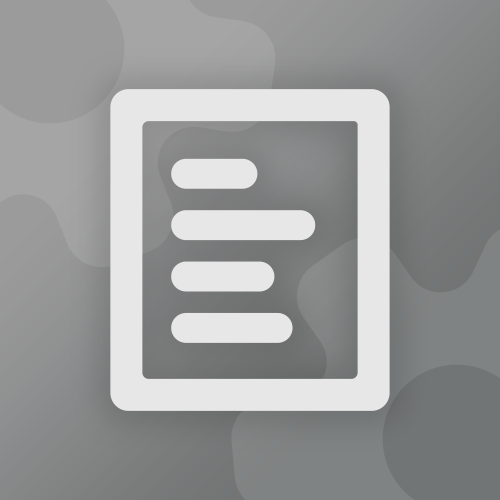
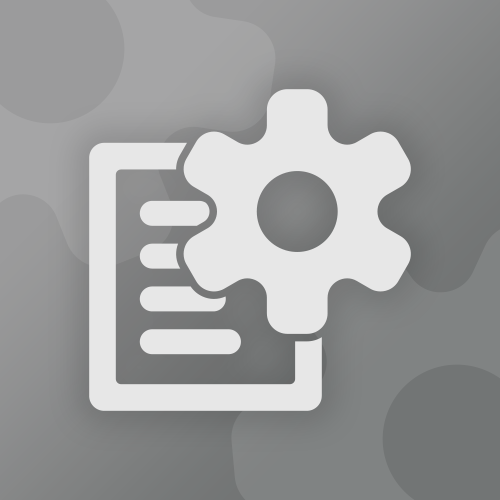
N 2.0

Changed region(s): [[0.18, 0.18, 0.78, 0.84], [0.75, 0.39, 0.84, 0.57], [0.78, 0.27, 0.84, 0.39]]

diff --git a/encore.html b/encore.html
@@ -482,13 +482,15 @@
 
     <div class="banner-bg-u" name="V1">
 
-        <svg xmlns="http://www.w3.org/2000/svg" viewBox="0 0 850.39 850.39">
-            <path d="M746.41,0H103.99C77.59,0,56.19,21.4,56.19,47.8V802.6c0,26.39,21.4,47.79,47.8,47.79H746.41c26.39,0,47.79-21.4,47.79-47.79V47.8C794.2,21.4,772.8,0,746.41,0Zm-36.6,749.3c0,9.22-7.48,16.7-16.71,16.7H157.29c-9.23,0-16.71-7.48-16.71-16.7V101.1c0-9.23,7.48-16.71,16.71-16.71H699.41c5.74,0,10.4,4.66,10.4,10.4V749.3Z"></path>
-            <rect x="371.3" y="-59.51" width="107.79" height="483.41" rx="53.9" ry="53.9" transform="translate(607.4 -243) rotate(90)"></rect>
-            <rect x="397.5" y="186.14" width="55.4" height="323.31" rx="27.7" ry="27.7" transform="translate(772.99 -77.4) rotate(90)"></rect>
-            <rect x="397.5" y="229.39" width="55.4" height="443.21" rx="27.7" ry="27.7" transform="translate(876.19 25.8) rotate(90)"></rect>
-            <rect x="397.5" y="447.39" width="55.4" height="213.61" rx="27.7" ry="27.7" transform="translate(979.39 129) rotate(90)"></rect>
-            <rect x="397.5" y="486.99" width="55.4" height="340.81" rx="27.7" ry="27.7" transform="translate(1082.59 232.2) rotate(90)"></rect>
+        <svg xmlns="http://www.w3.org/2000/svg" viewBox="0 0 850.41 850.41">
+            <path d="M426.35,666.54c12.75,0,23.08,10.33,23.08,23.08s-10.33,23.08-23.08,23.08H188.55c-12.75,0-23.08-10.34-23.08-23.08,0-6.38,2.58-12.14,6.76-16.32,4.17-4.18,9.95-6.76,16.32-6.76h237.8Z"/>
+            <path d="M286.6,540.72H145.89c-12.74,0-23.08-10.33-23.08-23.07,0-6.37,2.59-12.15,6.76-16.32s9.95-6.76,16.32-6.76h106.43l13.27,22.99c5.35,9.26,12.56,17.1,21.01,23.16Z"/>
+            <path d="M448.02,540.72h-73.95l28.75-16.6c4.61-2.67,9.88-4.08,15.23-4.08s10.95,1.48,15.75,4.27l.06,.03,.06,.03,.02,.02c.18,.1,.36,.21,.54,.31,6.33,3.68,11.07,9.4,13.54,16.02Z"/>
+            <path d="M373.36,580.55c12.75,0,23.08,10.33,23.08,23.08s-10.33,23.08-23.08,23.08H241.54c-12.74,0-23.08-10.33-23.08-23.08,0-6.37,2.58-12.15,6.76-16.32,4.18-4.18,9.95-6.76,16.32-6.76h131.82Z"/>
+            <path d="M195.84,408.58h39.04c-.99,2.54-1.85,5.15-2.56,7.82-3.42,12.77-3.4,25.91-.07,38.34h-36.41c-12.74,0-23.08-10.33-23.08-23.08,0-6.38,2.58-12.14,6.76-16.32s9.95-6.76,16.32-6.76Z"/>
+            <path d="M575.94,666.87c14.27,0,27.62-4.05,38.96-11.06v154.79c0,21.98-17.83,39.81-39.81,39.81H39.83C17.83,850.41,0,832.58,0,810.6V181.7C0,159.71,17.83,141.88,39.83,141.88h218.52l-18.61,32.24c-6.79,11.75-10.17,24.84-9.98,38.07H84.24c-7.69,0-13.93,6.23-13.93,13.92V766.19c0,7.68,6.24,13.91,13.93,13.91h446.43c7.69,0,13.92-6.23,13.92-13.91v-99.32h31.35Z"/>
+            <path d="M823.24,388.62h0s-35.77-20.67-35.77-20.67c-15.78-9.1-25.36-25.99-25.33-44.21v-.59c-.03-18.23,9.55-35.11,25.33-44.22l35.77-20.66c25.96-14.99,34.86-48.19,19.87-74.15l-25.86-44.79c-10.05-17.42-28.3-27.16-47.06-27.16-9.21,0-18.54,2.35-27.09,7.28l-35.75,20.64c-7.81,4.52-16.52,6.75-25.23,6.75s-17.81-2.33-25.79-6.96c-.17-.1-.35-.21-.53-.31-15.76-9.08-25.57-25.81-25.57-44.01V54.3C630.23,24.32,605.93,.02,575.94,.02h-51.71c-29.98,0-54.29,24.3-54.29,54.28v41.27c0,18.19-9.8,34.92-25.57,44.01-.17,.1-.35,.2-.53,.3-1.25,.72-2.51,1.39-3.8,2-6.96,3.3-14.48,4.97-21.99,4.97s-14.95-1.65-21.86-4.97c-1.14-.55-2.27-1.14-3.37-1.78l-35.74-20.64c-8.55-4.93-17.89-7.28-27.09-7.28-18.77,0-37.02,9.74-47.08,27.15l-1.47,2.55-24.38,42.24c-5.11,8.85-7.45,18.54-7.26,28.07,.23,13.48,5.49,26.63,15.02,36.58,3.47,3.65,7.52,6.86,12.11,9.51l35.78,20.65c15.78,9.11,25.35,26,25.33,44.22v.59c.01,5.1-.74,10.09-2.17,14.84-3.65,12.23-11.8,22.82-23.16,29.38l-35.78,20.66c-8.6,4.96-15.33,11.92-19.93,19.96-7.91,13.79-9.57,30.73-3.75,46.16,1.03,2.73,2.3,5.42,3.81,8.03l18.35,31.8,7.5,12.99c10.06,17.42,28.31,27.15,47.08,27.15,9.21,0,18.54-2.34,27.09-7.28l35.74-20.63c7.82-4.52,16.52-6.76,25.23-6.76s17.81,2.34,25.79,6.97c.18,.1,.35,.21,.53,.31,12.64,7.28,21.45,19.48,24.44,33.4,.74,3.44,1.13,6.99,1.13,10.6v41.27c0,29.98,24.31,54.28,54.29,54.28h51.71c15.29,0,29.1-6.31,38.96-16.48,9.49-9.77,15.33-23.1,15.33-37.8v-41.27c0-18.19,9.81-34.92,25.57-44,.17-.1,.36-.21,.53-.31,7.98-4.63,16.89-6.96,25.79-6.96s17.42,2.23,25.23,6.75l35.75,20.63c8.54,4.94,17.88,7.28,27.09,7.28,18.76,0,37.01-9.73,47.06-27.15l25.86-44.79c14.99-25.96,6.09-59.16-19.87-74.15Zm-171.53-31.3c-4.62,13.86-11.99,26.47-21.48,37.17-4.63,5.22-9.77,9.99-15.33,14.21-12.56,9.57-27.3,16.43-43.34,19.69-6.94,1.41-14.12,2.15-21.47,2.15-1.84,0-3.68-.05-5.5-.14-5.44-.27-10.78-.95-15.97-2.01-23.15-4.71-43.58-16.89-58.68-33.9-9.48-10.7-16.86-23.31-21.47-37.17-2.01-6.03-3.5-12.29-4.41-18.74-.7-4.95-1.06-10-1.06-15.13,0-11.84,1.92-23.23,5.47-33.87,4.61-13.87,11.99-26.47,21.47-37.17,.85-.96,1.71-1.9,2.6-2.82,14.8-15.53,34.23-26.63,56.08-31.08,4.83-.98,9.78-1.64,14.83-1.94,2.2-.14,4.41-.21,6.64-.21,7.35,0,14.53,.74,21.47,2.15,16.04,3.26,30.78,10.12,43.34,19.69,5.56,4.22,10.7,8.99,15.33,14.21,9.49,10.7,16.86,23.3,21.48,37.17,3.54,10.64,5.47,22.03,5.47,33.87s-1.93,23.22-5.47,33.87Z"/>
+            <path d="M314.34,338.58H150.98c-24.8,0-44.91-20.1-44.91-44.9,0-12.4,5.03-23.63,13.15-31.76,8.13-8.12,19.36-13.15,31.76-13.15h88.94c6.42,11.04,15.65,20.27,27.01,26.83l35.77,20.65c9.48,5.47,15.35,15.77,15.34,26.88v.61c0,5.28-1.31,10.37-3.7,14.84Z"/>
         </svg>
 
         <h1>ENCORE CLSF</h1>
@@ -594,12 +596,13 @@
 
     <div class="banner-bg-u" name="V2">
 
-        <svg xmlns="http://www.w3.org/2000/svg" viewBox="0 0 984.02 1133.86">
-            <path d="M920.3,0H63.73C28.53,0,0,28.53,0,63.73v1006.4c0,35.19,28.53,63.72,63.73,63.72H920.3c35.19,0,63.72-28.53,63.72-63.72V63.73c0-35.2-28.53-63.73-63.72-63.73Zm-48.8,999.07c0,12.29-9.97,22.27-22.28,22.27H134.8c-12.31,0-22.28-9.97-22.28-22.27V134.8c0-12.31,9.97-22.28,22.28-22.28H857.63c7.65,0,13.87,6.21,13.87,13.87V999.07Z"></path>
-            <rect x="214.3" y="245.62" width="303.71" height="105.3" rx="52.65" ry="52.65"></rect>
-            <rect x="214.3" y="426.7" width="507.58" height="105.3" rx="52.65" ry="52.65"></rect>
-            <rect x="214.3" y="607.78" width="363.58" height="105.3" rx="52.65" ry="52.65"></rect>
-            <rect x="214.3" y="788.86" width="427.58" height="105.3" rx="52.65" ry="52.65"></rect>
+        <svg xmlns="http://www.w3.org/2000/svg" viewBox="0 0 850.41 850.41">
+            <path d="M575.94,666.87c14.28,0,27.63-4.05,38.97-11.06v154.79c0,21.99-17.83,39.81-39.82,39.81H39.82C17.83,850.41,0,832.59,0,810.6V181.7C0,159.7,17.83,141.88,39.82,141.88h218.53l-18.61,32.24c-6.79,11.75-10.17,24.84-9.98,38.07H84.24c-7.7,0-13.93,6.23-13.93,13.92V766.19c0,7.69,6.23,13.92,13.93,13.92h446.43c7.7,0,13.93-6.24,13.93-13.92v-99.32h31.34Z"/>
+            <path d="M284.49,361.16h-117.67c-18.17,0-32.9-14.73-32.9-32.9,0-9.08,3.68-17.31,9.64-23.26,5.95-5.96,14.18-9.64,23.26-9.64h123.98c6.39,0,12.35,1.82,17.4,4.97,6.2,5.78,9.85,14.04,9.84,22.8v.61c.01,11.14-5.86,21.43-15.33,26.9l-18.22,10.52Z"/>
+            <path d="M166.82,634.83h201.39c18.17,0,32.9,14.73,32.9,32.9,0,9.09-3.68,17.31-9.64,23.26-5.95,5.96-14.17,9.64-23.26,9.64H166.82c-18.17,0-32.9-14.73-32.9-32.9,0-9.09,3.68-17.31,9.64-23.26,5.95-5.96,14.18-9.64,23.26-9.64Z"/>
+            <path d="M360.48,548.14c.41,2.08,.63,4.23,.63,6.44,0,9.08-3.68,17.31-9.64,23.26-5.95,5.96-14.17,9.64-23.26,9.64H166.82c-18.17,0-32.9-14.73-32.9-32.9,0-9.09,3.68-17.32,9.64-23.27,5.95-5.96,14.18-9.64,23.26-9.64h101.33c13.71,20.5,36.97,33.04,61.84,33.04,10.51,0,20.92-2.26,30.49-6.57Z"/>
+            <path d="M823.24,388.62h0s-35.77-20.67-35.77-20.67c-15.78-9.1-25.36-25.99-25.33-44.21v-.59c-.03-18.23,9.55-35.11,25.33-44.22l35.77-20.66c25.96-14.99,34.86-48.19,19.87-74.15l-25.86-44.79c-10.05-17.42-28.3-27.16-47.06-27.16-9.21,0-18.54,2.35-27.09,7.28l-35.75,20.64c-7.81,4.52-16.52,6.75-25.23,6.75s-17.81-2.33-25.79-6.96c-.17-.1-.35-.21-.53-.31-15.76-9.08-25.57-25.81-25.57-44.01V54.3C630.23,24.32,605.93,.02,575.94,.02h-51.71c-29.98,0-54.29,24.3-54.29,54.28v41.27c0,18.19-9.8,34.92-25.57,44.01-.17,.1-.35,.2-.53,.3-1.25,.72-2.51,1.39-3.8,2-6.96,3.3-14.48,4.97-21.99,4.97s-14.95-1.65-21.86-4.97c-1.14-.55-2.27-1.14-3.37-1.78l-35.74-20.64c-8.55-4.93-17.89-7.28-27.09-7.28-18.77,0-37.02,9.74-47.08,27.15l-1.47,2.55-24.38,42.24c-5.11,8.85-7.45,18.54-7.26,28.07,.32,18.41,10.01,36.21,27.13,46.09l35.78,20.65c15.78,9.11,25.35,26,25.33,44.22v.59c.02,18.23-9.55,35.11-25.33,44.22l-35.78,20.66c-8.58,4.95-15.29,11.89-19.9,19.9-9.34,16.24-10.01,36.87,.03,54.25l6.67,11.55,19.18,33.24c3.17,5.49,7.15,10.21,11.71,14.11,9.9,8.47,22.51,13.04,35.37,13.04,6.97,0,14-1.34,20.72-4.13,2.16-.9,4.29-1.95,6.37-3.15l35.74-20.63c7.82-4.52,16.52-6.76,25.23-6.76s17.81,2.34,25.79,6.97c.18,.1,.35,.21,.53,.31,15.77,9.08,25.57,25.81,25.57,44v41.27c0,29.98,24.31,54.28,54.29,54.28h51.71c15.29,0,29.11-6.32,38.97-16.49,9.49-9.77,15.32-23.1,15.32-37.79v-41.27c0-18.19,9.81-34.92,25.57-44,.17-.1,.36-.21,.53-.31,7.98-4.63,16.89-6.96,25.79-6.96s17.42,2.23,25.23,6.75l35.75,20.63c8.54,4.94,17.88,7.28,27.09,7.28,18.76,0,37.01-9.73,47.06-27.15l25.86-44.79c14.99-25.96,6.09-59.16-19.87-74.15Zm-171.53-31.3c-4.62,13.86-11.99,26.47-21.48,37.17-4.63,5.22-9.76,9.98-15.32,14.2-12.57,9.58-27.31,16.43-43.35,19.7-6.94,1.41-14.12,2.15-21.47,2.15-1.84,0-3.67-.05-5.49-.14-5.44-.27-10.78-.95-15.98-2.01-23.15-4.71-43.58-16.89-58.68-33.9-9.48-10.7-16.86-23.31-21.47-37.17-3.55-10.65-5.47-22.04-5.47-33.87s1.92-23.23,5.47-33.87c4.61-13.87,11.99-26.47,21.47-37.17,15.1-17.01,35.53-29.19,58.68-33.9,4.83-.98,9.79-1.64,14.84-1.94,2.19-.14,4.4-.21,6.63-.21,7.35,0,14.53,.74,21.47,2.15,16.04,3.27,30.78,10.12,43.35,19.7,5.56,4.22,10.69,8.98,15.32,14.2,9.49,10.7,16.86,23.3,21.48,37.17,3.54,10.64,5.47,22.03,5.47,33.87s-1.93,23.22-5.47,33.87Z"/>
+            <path d="M239.74,472.77l.89,1.55h-73.81c-18.17,0-32.9-14.73-32.9-32.9,0-9.08,3.68-17.31,9.64-23.26,5.95-5.96,14.18-9.64,23.26-9.64h68.08c-1,2.56-1.86,5.19-2.58,7.88-5.14,19.17-2.5,39.19,7.42,56.37Z"/>
         </svg>
 
         <h1>ENCORE CMSF</h1>
@@ -678,13 +681,15 @@
 
         <a onclick="parent.loadframe('ENCORE CLSF');parent.backPage(1)">
             <div class="featurebanner" name="A tool used to format text files for ENCORE CLS">
-                <svg xmlns="http://www.w3.org/2000/svg" viewBox="0 0 850.39 850.39">
-                    <path d="M746.41,0H103.99C77.59,0,56.19,21.4,56.19,47.8V802.6c0,26.39,21.4,47.79,47.8,47.79H746.41c26.39,0,47.79-21.4,47.79-47.79V47.8C794.2,21.4,772.8,0,746.41,0Zm-36.6,749.3c0,9.22-7.48,16.7-16.71,16.7H157.29c-9.23,0-16.71-7.48-16.71-16.7V101.1c0-9.23,7.48-16.71,16.71-16.71H699.41c5.74,0,10.4,4.66,10.4,10.4V749.3Z"></path>
-                    <rect x="371.3" y="-59.51" width="107.79" height="483.41" rx="53.9" ry="53.9" transform="translate(607.4 -243) rotate(90)"></rect>
-                    <rect x="397.5" y="186.14" width="55.4" height="323.31" rx="27.7" ry="27.7" transform="translate(772.99 -77.4) rotate(90)"></rect>
-                    <rect x="397.5" y="229.39" width="55.4" height="443.21" rx="27.7" ry="27.7" transform="translate(876.19 25.8) rotate(90)"></rect>
-                    <rect x="397.5" y="447.39" width="55.4" height="213.61" rx="27.7" ry="27.7" transform="translate(979.39 129) rotate(90)"></rect>
-                    <rect x="397.5" y="486.99" width="55.4" height="340.81" rx="27.7" ry="27.7" transform="translate(1082.59 232.2) rotate(90)"></rect>
+                <svg xmlns="http://www.w3.org/2000/svg" viewBox="0 0 850.41 850.41">
+                    <path d="M426.35,666.54c12.75,0,23.08,10.33,23.08,23.08s-10.33,23.08-23.08,23.08H188.55c-12.75,0-23.08-10.34-23.08-23.08,0-6.38,2.58-12.14,6.76-16.32,4.17-4.18,9.95-6.76,16.32-6.76h237.8Z"/>
+                    <path d="M286.6,540.72H145.89c-12.74,0-23.08-10.33-23.08-23.07,0-6.37,2.59-12.15,6.76-16.32s9.95-6.76,16.32-6.76h106.43l13.27,22.99c5.35,9.26,12.56,17.1,21.01,23.16Z"/>
+                    <path d="M448.02,540.72h-73.95l28.75-16.6c4.61-2.67,9.88-4.08,15.23-4.08s10.95,1.48,15.75,4.27l.06,.03,.06,.03,.02,.02c.18,.1,.36,.21,.54,.31,6.33,3.68,11.07,9.4,13.54,16.02Z"/>
+                    <path d="M373.36,580.55c12.75,0,23.08,10.33,23.08,23.08s-10.33,23.08-23.08,23.08H241.54c-12.74,0-23.08-10.33-23.08-23.08,0-6.37,2.58-12.15,6.76-16.32,4.18-4.18,9.95-6.76,16.32-6.76h131.82Z"/>
+                    <path d="M195.84,408.58h39.04c-.99,2.54-1.85,5.15-2.56,7.82-3.42,12.77-3.4,25.91-.07,38.34h-36.41c-12.74,0-23.08-10.33-23.08-23.08,0-6.38,2.58-12.14,6.76-16.32s9.95-6.76,16.32-6.76Z"/>
+                    <path d="M575.94,666.87c14.27,0,27.62-4.05,38.96-11.06v154.79c0,21.98-17.83,39.81-39.81,39.81H39.83C17.83,850.41,0,832.58,0,810.6V181.7C0,159.71,17.83,141.88,39.83,141.88h218.52l-18.61,32.24c-6.79,11.75-10.17,24.84-9.98,38.07H84.24c-7.69,0-13.93,6.23-13.93,13.92V766.19c0,7.68,6.24,13.91,13.93,13.91h446.43c7.69,0,13.92-6.23,13.92-13.91v-99.32h31.35Z"/>
+                    <path d="M823.24,388.62h0s-35.77-20.67-35.77-20.67c-15.78-9.1-25.36-25.99-25.33-44.21v-.59c-.03-18.23,9.55-35.11,25.33-44.22l35.77-20.66c25.96-14.99,34.86-48.19,19.87-74.15l-25.86-44.79c-10.05-17.42-28.3-27.16-47.06-27.16-9.21,0-18.54,2.35-27.09,7.28l-35.75,20.64c-7.81,4.52-16.52,6.75-25.23,6.75s-17.81-2.33-25.79-6.96c-.17-.1-.35-.21-.53-.31-15.76-9.08-25.57-25.81-25.57-44.01V54.3C630.23,24.32,605.93,.02,575.94,.02h-51.71c-29.98,0-54.29,24.3-54.29,54.28v41.27c0,18.19-9.8,34.92-25.57,44.01-.17,.1-.35,.2-.53,.3-1.25,.72-2.51,1.39-3.8,2-6.96,3.3-14.48,4.97-21.99,4.97s-14.95-1.65-21.86-4.97c-1.14-.55-2.27-1.14-3.37-1.78l-35.74-20.64c-8.55-4.93-17.89-7.28-27.09-7.28-18.77,0-37.02,9.74-47.08,27.15l-1.47,2.55-24.38,42.24c-5.11,8.85-7.45,18.54-7.26,28.07,.23,13.48,5.49,26.63,15.02,36.58,3.47,3.65,7.52,6.86,12.11,9.51l35.78,20.65c15.78,9.11,25.35,26,25.33,44.22v.59c.01,5.1-.74,10.09-2.17,14.84-3.65,12.23-11.8,22.82-23.16,29.38l-35.78,20.66c-8.6,4.96-15.33,11.92-19.93,19.96-7.91,13.79-9.57,30.73-3.75,46.16,1.03,2.73,2.3,5.42,3.81,8.03l18.35,31.8,7.5,12.99c10.06,17.42,28.31,27.15,47.08,27.15,9.21,0,18.54-2.34,27.09-7.28l35.74-20.63c7.82-4.52,16.52-6.76,25.23-6.76s17.81,2.34,25.79,6.97c.18,.1,.35,.21,.53,.31,12.64,7.28,21.45,19.48,24.44,33.4,.74,3.44,1.13,6.99,1.13,10.6v41.27c0,29.98,24.31,54.28,54.29,54.28h51.71c15.29,0,29.1-6.31,38.96-16.48,9.49-9.77,15.33-23.1,15.33-37.8v-41.27c0-18.19,9.81-34.92,25.57-44,.17-.1,.36-.21,.53-.31,7.98-4.63,16.89-6.96,25.79-6.96s17.42,2.23,25.23,6.75l35.75,20.63c8.54,4.94,17.88,7.28,27.09,7.28,18.76,0,37.01-9.73,47.06-27.15l25.86-44.79c14.99-25.96,6.09-59.16-19.87-74.15Zm-171.53-31.3c-4.62,13.86-11.99,26.47-21.48,37.17-4.63,5.22-9.77,9.99-15.33,14.21-12.56,9.57-27.3,16.43-43.34,19.69-6.94,1.41-14.12,2.15-21.47,2.15-1.84,0-3.68-.05-5.5-.14-5.44-.27-10.78-.95-15.97-2.01-23.15-4.71-43.58-16.89-58.68-33.9-9.48-10.7-16.86-23.31-21.47-37.17-2.01-6.03-3.5-12.29-4.41-18.74-.7-4.95-1.06-10-1.06-15.13,0-11.84,1.92-23.23,5.47-33.87,4.61-13.87,11.99-26.47,21.47-37.17,.85-.96,1.71-1.9,2.6-2.82,14.8-15.53,34.23-26.63,56.08-31.08,4.83-.98,9.78-1.64,14.83-1.94,2.2-.14,4.41-.21,6.64-.21,7.35,0,14.53,.74,21.47,2.15,16.04,3.26,30.78,10.12,43.34,19.69,5.56,4.22,10.7,8.99,15.33,14.21,9.49,10.7,16.86,23.3,21.48,37.17,3.54,10.64,5.47,22.03,5.47,33.87s-1.93,23.22-5.47,33.87Z"/>
+                    <path d="M314.34,338.58H150.98c-24.8,0-44.91-20.1-44.91-44.9,0-12.4,5.03-23.63,13.15-31.76,8.13-8.12,19.36-13.15,31.76-13.15h88.94c6.42,11.04,15.65,20.27,27.01,26.83l35.77,20.65c9.48,5.47,15.35,15.77,15.34,26.88v.61c0,5.28-1.31,10.37-3.7,14.84Z"/>
                 </svg>
                 <img src="icon/thumbnails_small/CLSF.png" alt="page icon" draggable="false">
                 <p>ENCORE CLSF</p>
@@ -746,12 +751,13 @@
 
         <a onclick="//parent.loadframe('ENCORE CMSF');parent.backPage(1)">
             <div class="featurebanner" name="A tool used to format HTML code for ENCORE CMS">
-                <svg xmlns="http://www.w3.org/2000/svg" viewBox="0 0 984.02 1133.86">
-                    <path d="M920.3,0H63.73C28.53,0,0,28.53,0,63.73v1006.4c0,35.19,28.53,63.72,63.73,63.72H920.3c35.19,0,63.72-28.53,63.72-63.72V63.73c0-35.2-28.53-63.73-63.72-63.73Zm-48.8,999.07c0,12.29-9.97,22.27-22.28,22.27H134.8c-12.31,0-22.28-9.97-22.28-22.27V134.8c0-12.31,9.97-22.28,22.28-22.28H857.63c7.65,0,13.87,6.21,13.87,13.87V999.07Z"></path>
-                    <rect x="214.3" y="245.62" width="303.71" height="105.3" rx="52.65" ry="52.65"></rect>
-                    <rect x="214.3" y="426.7" width="507.58" height="105.3" rx="52.65" ry="52.65"></rect>
-                    <rect x="214.3" y="607.78" width="363.58" height="105.3" rx="52.65" ry="52.65"></rect>
-                    <rect x="214.3" y="788.86" width="427.58" height="105.3" rx="52.65" ry="52.65"></rect>
+                <svg xmlns="http://www.w3.org/2000/svg" viewBox="0 0 850.41 850.41">
+                    <path d="M575.94,666.87c14.28,0,27.63-4.05,38.97-11.06v154.79c0,21.99-17.83,39.81-39.82,39.81H39.82C17.83,850.41,0,832.59,0,810.6V181.7C0,159.7,17.83,141.88,39.82,141.88h218.53l-18.61,32.24c-6.79,11.75-10.17,24.84-9.98,38.07H84.24c-7.7,0-13.93,6.23-13.93,13.92V766.19c0,7.69,6.23,13.92,13.93,13.92h446.43c7.7,0,13.93-6.24,13.93-13.92v-99.32h31.34Z"/>
+                    <path d="M284.49,361.16h-117.67c-18.17,0-32.9-14.73-32.9-32.9,0-9.08,3.68-17.31,9.64-23.26,5.95-5.96,14.18-9.64,23.26-9.64h123.98c6.39,0,12.35,1.82,17.4,4.97,6.2,5.78,9.85,14.04,9.84,22.8v.61c.01,11.14-5.86,21.43-15.33,26.9l-18.22,10.52Z"/>
+                    <path d="M166.82,634.83h201.39c18.17,0,32.9,14.73,32.9,32.9,0,9.09-3.68,17.31-9.64,23.26-5.95,5.96-14.17,9.64-23.26,9.64H166.82c-18.17,0-32.9-14.73-32.9-32.9,0-9.09,3.68-17.31,9.64-23.26,5.95-5.96,14.18-9.64,23.26-9.64Z"/>
+                    <path d="M360.48,548.14c.41,2.08,.63,4.23,.63,6.44,0,9.08-3.68,17.31-9.64,23.26-5.95,5.96-14.17,9.64-23.26,9.64H166.82c-18.17,0-32.9-14.73-32.9-32.9,0-9.09,3.68-17.32,9.64-23.27,5.95-5.96,14.18-9.64,23.26-9.64h101.33c13.71,20.5,36.97,33.04,61.84,33.04,10.51,0,20.92-2.26,30.49-6.57Z"/>
+                    <path d="M823.24,388.62h0s-35.77-20.67-35.77-20.67c-15.78-9.1-25.36-25.99-25.33-44.21v-.59c-.03-18.23,9.55-35.11,25.33-44.22l35.77-20.66c25.96-14.99,34.86-48.19,19.87-74.15l-25.86-44.79c-10.05-17.42-28.3-27.16-47.06-27.16-9.21,0-18.54,2.35-27.09,7.28l-35.75,20.64c-7.81,4.52-16.52,6.75-25.23,6.75s-17.81-2.33-25.79-6.96c-.17-.1-.35-.21-.53-.31-15.76-9.08-25.57-25.81-25.57-44.01V54.3C630.23,24.32,605.93,.02,575.94,.02h-51.71c-29.98,0-54.29,24.3-54.29,54.28v41.27c0,18.19-9.8,34.92-25.57,44.01-.17,.1-.35,.2-.53,.3-1.25,.72-2.51,1.39-3.8,2-6.96,3.3-14.48,4.97-21.99,4.97s-14.95-1.65-21.86-4.97c-1.14-.55-2.27-1.14-3.37-1.78l-35.74-20.64c-8.55-4.93-17.89-7.28-27.09-7.28-18.77,0-37.02,9.74-47.08,27.15l-1.47,2.55-24.38,42.24c-5.11,8.85-7.45,18.54-7.26,28.07,.32,18.41,10.01,36.21,27.13,46.09l35.78,20.65c15.78,9.11,25.35,26,25.33,44.22v.59c.02,18.23-9.55,35.11-25.33,44.22l-35.78,20.66c-8.58,4.95-15.29,11.89-19.9,19.9-9.34,16.24-10.01,36.87,.03,54.25l6.67,11.55,19.18,33.24c3.17,5.49,7.15,10.21,11.71,14.11,9.9,8.47,22.51,13.04,35.37,13.04,6.97,0,14-1.34,20.72-4.13,2.16-.9,4.29-1.95,6.37-3.15l35.74-20.63c7.82-4.52,16.52-6.76,25.23-6.76s17.81,2.34,25.79,6.97c.18,.1,.35,.21,.53,.31,15.77,9.08,25.57,25.81,25.57,44v41.27c0,29.98,24.31,54.28,54.29,54.28h51.71c15.29,0,29.11-6.32,38.97-16.49,9.49-9.77,15.32-23.1,15.32-37.79v-41.27c0-18.19,9.81-34.92,25.57-44,.17-.1,.36-.21,.53-.31,7.98-4.63,16.89-6.96,25.79-6.96s17.42,2.23,25.23,6.75l35.75,20.63c8.54,4.94,17.88,7.28,27.09,7.28,18.76,0,37.01-9.73,47.06-27.15l25.86-44.79c14.99-25.96,6.09-59.16-19.87-74.15Zm-171.53-31.3c-4.62,13.86-11.99,26.47-21.48,37.17-4.63,5.22-9.76,9.98-15.32,14.2-12.57,9.58-27.31,16.43-43.35,19.7-6.94,1.41-14.12,2.15-21.47,2.15-1.84,0-3.67-.05-5.49-.14-5.44-.27-10.78-.95-15.98-2.01-23.15-4.71-43.58-16.89-58.68-33.9-9.48-10.7-16.86-23.31-21.47-37.17-3.55-10.65-5.47-22.04-5.47-33.87s1.92-23.23,5.47-33.87c4.61-13.87,11.99-26.47,21.47-37.17,15.1-17.01,35.53-29.19,58.68-33.9,4.83-.98,9.79-1.64,14.84-1.94,2.19-.14,4.4-.21,6.63-.21,7.35,0,14.53,.74,21.47,2.15,16.04,3.27,30.78,10.12,43.35,19.7,5.56,4.22,10.69,8.98,15.32,14.2,9.49,10.7,16.86,23.3,21.48,37.17,3.54,10.64,5.47,22.03,5.47,33.87s-1.93,23.22-5.47,33.87Z"/>
+                    <path d="M239.74,472.77l.89,1.55h-73.81c-18.17,0-32.9-14.73-32.9-32.9,0-9.08,3.68-17.31,9.64-23.26,5.95-5.96,14.18-9.64,23.26-9.64h68.08c-1,2.56-1.86,5.19-2.58,7.88-5.14,19.17-2.5,39.19,7.42,56.37Z"/>
                 </svg>
                 <img src="icon/thumbnails_small/CMSF.png" alt="page icon" draggable="false">
                 <p>ENCORE CMSF</p>

diff --git a/ENCORE CLSF.html b/ENCORE CLSF.html
@@ -158,13 +158,15 @@
         <header>
             <div class="observe"></div>
             <div class="imagebox">
-                <svg xmlns="http://www.w3.org/2000/svg" viewBox="0 0 850.39 850.39">
-                    <path fill="var(--bar)" d="M746.41,0H103.99C77.59,0,56.19,21.4,56.19,47.8V802.6c0,26.39,21.4,47.79,47.8,47.79H746.41c26.39,0,47.79-21.4,47.79-47.79V47.8C794.2,21.4,772.8,0,746.41,0Zm-36.6,749.3c0,9.22-7.48,16.7-16.71,16.7H157.29c-9.23,0-16.71-7.48-16.71-16.7V101.1c0-9.23,7.48-16.71,16.71-16.71H699.41c5.74,0,10.4,4.66,10.4,10.4V749.3Z"/>
-                    <rect fill="var(--bar)" x="371.3" y="-59.51" width="107.79" height="483.41" rx="53.9" ry="53.9" transform="translate(607.4 -243) rotate(90)"/>
-                    <rect fill="var(--bar)" x="397.5" y="186.14" width="55.4" height="323.31" rx="27.7" ry="27.7" transform="translate(772.99 -77.4) rotate(90)"/>
-                    <rect fill="var(--bar)" x="397.5" y="229.39" width="55.4" height="443.21" rx="27.7" ry="27.7" transform="translate(876.19 25.8) rotate(90)"/>
-                    <rect fill="var(--bar)" x="397.5" y="447.39" width="55.4" height="213.61" rx="27.7" ry="27.7" transform="translate(979.39 129) rotate(90)"/>
-                    <rect fill="var(--bar)" x="397.5" y="486.99" width="55.4" height="340.81" rx="27.7" ry="27.7" transform="translate(1082.59 232.2) rotate(90)"/>
+                <svg xmlns="http://www.w3.org/2000/svg" viewBox="0 0 850.41 850.41">
+                    <path fill="var(--bar)" d="M426.35,666.54c12.75,0,23.08,10.33,23.08,23.08s-10.33,23.08-23.08,23.08H188.55c-12.75,0-23.08-10.34-23.08-23.08,0-6.38,2.58-12.14,6.76-16.32,4.17-4.18,9.95-6.76,16.32-6.76h237.8Z"/>
+                    <path fill="var(--bar)" d="M286.6,540.72H145.89c-12.74,0-23.08-10.33-23.08-23.07,0-6.37,2.59-12.15,6.76-16.32s9.95-6.76,16.32-6.76h106.43l13.27,22.99c5.35,9.26,12.56,17.1,21.01,23.16Z"/>
+                    <path fill="var(--bar)" d="M448.02,540.72h-73.95l28.75-16.6c4.61-2.67,9.88-4.08,15.23-4.08s10.95,1.48,15.75,4.27l.06,.03,.06,.03,.02,.02c.18,.1,.36,.21,.54,.31,6.33,3.68,11.07,9.4,13.54,16.02Z"/>
+                    <path fill="var(--bar)" d="M373.36,580.55c12.75,0,23.08,10.33,23.08,23.08s-10.33,23.08-23.08,23.08H241.54c-12.74,0-23.08-10.33-23.08-23.08,0-6.37,2.58-12.15,6.76-16.32,4.18-4.18,9.95-6.76,16.32-6.76h131.82Z"/>
+                    <path fill="var(--bar)" d="M195.84,408.58h39.04c-.99,2.54-1.85,5.15-2.56,7.82-3.42,12.77-3.4,25.91-.07,38.34h-36.41c-12.74,0-23.08-10.33-23.08-23.08,0-6.38,2.58-12.14,6.76-16.32s9.95-6.76,16.32-6.76Z"/>
+                    <path fill="var(--bar)" d="M575.94,666.87c14.27,0,27.62-4.05,38.96-11.06v154.79c0,21.98-17.83,39.81-39.81,39.81H39.83C17.83,850.41,0,832.58,0,810.6V181.7C0,159.71,17.83,141.88,39.83,141.88h218.52l-18.61,32.24c-6.79,11.75-10.17,24.84-9.98,38.07H84.24c-7.69,0-13.93,6.23-13.93,13.92V766.19c0,7.68,6.24,13.91,13.93,13.91h446.43c7.69,0,13.92-6.23,13.92-13.91v-99.32h31.35Z"/>
+                    <path fill="var(--bar)" d="M823.24,388.62h0s-35.77-20.67-35.77-20.67c-15.78-9.1-25.36-25.99-25.33-44.21v-.59c-.03-18.23,9.55-35.11,25.33-44.22l35.77-20.66c25.96-14.99,34.86-48.19,19.87-74.15l-25.86-44.79c-10.05-17.42-28.3-27.16-47.06-27.16-9.21,0-18.54,2.35-27.09,7.28l-35.75,20.64c-7.81,4.52-16.52,6.75-25.23,6.75s-17.81-2.33-25.79-6.96c-.17-.1-.35-.21-.53-.31-15.76-9.08-25.57-25.81-25.57-44.01V54.3C630.23,24.32,605.93,.02,575.94,.02h-51.71c-29.98,0-54.29,24.3-54.29,54.28v41.27c0,18.19-9.8,34.92-25.57,44.01-.17,.1-.35,.2-.53,.3-1.25,.72-2.51,1.39-3.8,2-6.96,3.3-14.48,4.97-21.99,4.97s-14.95-1.65-21.86-4.97c-1.14-.55-2.27-1.14-3.37-1.78l-35.74-20.64c-8.55-4.93-17.89-7.28-27.09-7.28-18.77,0-37.02,9.74-47.08,27.15l-1.47,2.55-24.38,42.24c-5.11,8.85-7.45,18.54-7.26,28.07,.23,13.48,5.49,26.63,15.02,36.58,3.47,3.65,7.52,6.86,12.11,9.51l35.78,20.65c15.78,9.11,25.35,26,25.33,44.22v.59c.01,5.1-.74,10.09-2.17,14.84-3.65,12.23-11.8,22.82-23.16,29.38l-35.78,20.66c-8.6,4.96-15.33,11.92-19.93,19.96-7.91,13.79-9.57,30.73-3.75,46.16,1.03,2.73,2.3,5.42,3.81,8.03l18.35,31.8,7.5,12.99c10.06,17.42,28.31,27.15,47.08,27.15,9.21,0,18.54-2.34,27.09-7.28l35.74-20.63c7.82-4.52,16.52-6.76,25.23-6.76s17.81,2.34,25.79,6.97c.18,.1,.35,.21,.53,.31,12.64,7.28,21.45,19.48,24.44,33.4,.74,3.44,1.13,6.99,1.13,10.6v41.27c0,29.98,24.31,54.28,54.29,54.28h51.71c15.29,0,29.1-6.31,38.96-16.48,9.49-9.77,15.33-23.1,15.33-37.8v-41.27c0-18.19,9.81-34.92,25.57-44,.17-.1,.36-.21,.53-.31,7.98-4.63,16.89-6.96,25.79-6.96s17.42,2.23,25.23,6.75l35.75,20.63c8.54,4.94,17.88,7.28,27.09,7.28,18.76,0,37.01-9.73,47.06-27.15l25.86-44.79c14.99-25.96,6.09-59.16-19.87-74.15Zm-171.53-31.3c-4.62,13.86-11.99,26.47-21.48,37.17-4.63,5.22-9.77,9.99-15.33,14.21-12.56,9.57-27.3,16.43-43.34,19.69-6.94,1.41-14.12,2.15-21.47,2.15-1.84,0-3.68-.05-5.5-.14-5.44-.27-10.78-.95-15.97-2.01-23.15-4.71-43.58-16.89-58.68-33.9-9.48-10.7-16.86-23.31-21.47-37.17-2.01-6.03-3.5-12.29-4.41-18.74-.7-4.95-1.06-10-1.06-15.13,0-11.84,1.92-23.23,5.47-33.87,4.61-13.87,11.99-26.47,21.47-37.17,.85-.96,1.71-1.9,2.6-2.82,14.8-15.53,34.23-26.63,56.08-31.08,4.83-.98,9.78-1.64,14.83-1.94,2.2-.14,4.41-.21,6.64-.21,7.35,0,14.53,.74,21.47,2.15,16.04,3.26,30.78,10.12,43.34,19.69,5.56,4.22,10.7,8.99,15.33,14.21,9.49,10.7,16.86,23.3,21.48,37.17,3.54,10.64,5.47,22.03,5.47,33.87s-1.93,23.22-5.47,33.87Z"/>
+                    <path fill="var(--bar)" d="M314.34,338.58H150.98c-24.8,0-44.91-20.1-44.91-44.9,0-12.4,5.03-23.63,13.15-31.76,8.13-8.12,19.36-13.15,31.76-13.15h88.94c6.42,11.04,15.65,20.27,27.01,26.83l35.77,20.65c9.48,5.47,15.35,15.77,15.34,26.88v.61c0,5.28-1.31,10.37-3.7,14.84Z"/>
                 </svg>
                 <img src="icon/thumbnails/CLSF.png" alt="ENCORE CLSF" id="headerimage" draggable="false">
          	</div>

diff --git a/ENCORE CMSF.html b/ENCORE CMSF.html
@@ -46,12 +46,13 @@
         <header>
             <div class="observe"></div>
             <div class="imagebox">
-                <svg xmlns="http://www.w3.org/2000/svg" viewBox="0 0 984.02 1133.86">
-                    <path fill="var(--bar)" d="M920.3,0H63.73C28.53,0,0,28.53,0,63.73v1006.4c0,35.19,28.53,63.72,63.73,63.72H920.3c35.19,0,63.72-28.53,63.72-63.72V63.73c0-35.2-28.53-63.73-63.72-63.73Zm-48.8,999.07c0,12.29-9.97,22.27-22.28,22.27H134.8c-12.31,0-22.28-9.97-22.28-22.27V134.8c0-12.31,9.97-22.28,22.28-22.28H857.63c7.65,0,13.87,6.21,13.87,13.87V999.07Z"/>
-                    <rect fill="var(--bar)" x="214.3" y="245.62" width="303.71" height="105.3" rx="52.65" ry="52.65"/>
-                    <rect fill="var(--bar)" x="214.3" y="426.7" width="507.58" height="105.3" rx="52.65" ry="52.65"/>
-                    <rect fill="var(--bar)" x="214.3" y="607.78" width="363.58" height="105.3" rx="52.65" ry="52.65"/>
-                    <rect fill="var(--bar)" x="214.3" y="788.86" width="427.58" height="105.3" rx="52.65" ry="52.65"/>
+                <svg xmlns="http://www.w3.org/2000/svg" viewBox="0 0 850.41 850.41">
+                    <path fill="var(--bar)" d="M575.94,666.87c14.28,0,27.63-4.05,38.97-11.06v154.79c0,21.99-17.83,39.81-39.82,39.81H39.82C17.83,850.41,0,832.59,0,810.6V181.7C0,159.7,17.83,141.88,39.82,141.88h218.53l-18.61,32.24c-6.79,11.75-10.17,24.84-9.98,38.07H84.24c-7.7,0-13.93,6.23-13.93,13.92V766.19c0,7.69,6.23,13.92,13.93,13.92h446.43c7.7,0,13.93-6.24,13.93-13.92v-99.32h31.34Z"/>
+                    <path fill="var(--bar)" d="M284.49,361.16h-117.67c-18.17,0-32.9-14.73-32.9-32.9,0-9.08,3.68-17.31,9.64-23.26,5.95-5.96,14.18-9.64,23.26-9.64h123.98c6.39,0,12.35,1.82,17.4,4.97,6.2,5.78,9.85,14.04,9.84,22.8v.61c.01,11.14-5.86,21.43-15.33,26.9l-18.22,10.52Z"/>
+                    <path fill="var(--bar)" d="M166.82,634.83h201.39c18.17,0,32.9,14.73,32.9,32.9,0,9.09-3.68,17.31-9.64,23.26-5.95,5.96-14.17,9.64-23.26,9.64H166.82c-18.17,0-32.9-14.73-32.9-32.9,0-9.09,3.68-17.31,9.64-23.26,5.95-5.96,14.18-9.64,23.26-9.64Z"/>
+                    <path fill="var(--bar)" d="M360.48,548.14c.41,2.08,.63,4.23,.63,6.44,0,9.08-3.68,17.31-9.64,23.26-5.95,5.96-14.17,9.64-23.26,9.64H166.82c-18.17,0-32.9-14.73-32.9-32.9,0-9.09,3.68-17.32,9.64-23.27,5.95-5.96,14.18-9.64,23.26-9.64h101.33c13.71,20.5,36.97,33.04,61.84,33.04,10.51,0,20.92-2.26,30.49-6.57Z"/>
+                    <path fill="var(--bar)" d="M823.24,388.62h0s-35.77-20.67-35.77-20.67c-15.78-9.1-25.36-25.99-25.33-44.21v-.59c-.03-18.23,9.55-35.11,25.33-44.22l35.77-20.66c25.96-14.99,34.86-48.19,19.87-74.15l-25.86-44.79c-10.05-17.42-28.3-27.16-47.06-27.16-9.21,0-18.54,2.35-27.09,7.28l-35.75,20.64c-7.81,4.52-16.52,6.75-25.23,6.75s-17.81-2.33-25.79-6.96c-.17-.1-.35-.21-.53-.31-15.76-9.08-25.57-25.81-25.57-44.01V54.3C630.23,24.32,605.93,.02,575.94,.02h-51.71c-29.98,0-54.29,24.3-54.29,54.28v41.27c0,18.19-9.8,34.92-25.57,44.01-.17,.1-.35,.2-.53,.3-1.25,.72-2.51,1.39-3.8,2-6.96,3.3-14.48,4.97-21.99,4.97s-14.95-1.65-21.86-4.97c-1.14-.55-2.27-1.14-3.37-1.78l-35.74-20.64c-8.55-4.93-17.89-7.28-27.09-7.28-18.77,0-37.02,9.74-47.08,27.15l-1.47,2.55-24.38,42.24c-5.11,8.85-7.45,18.54-7.26,28.07,.32,18.41,10.01,36.21,27.13,46.09l35.78,20.65c15.78,9.11,25.35,26,25.33,44.22v.59c.02,18.23-9.55,35.11-25.33,44.22l-35.78,20.66c-8.58,4.95-15.29,11.89-19.9,19.9-9.34,16.24-10.01,36.87,.03,54.25l6.67,11.55,19.18,33.24c3.17,5.49,7.15,10.21,11.71,14.11,9.9,8.47,22.51,13.04,35.37,13.04,6.97,0,14-1.34,20.72-4.13,2.16-.9,4.29-1.95,6.37-3.15l35.74-20.63c7.82-4.52,16.52-6.76,25.23-6.76s17.81,2.34,25.79,6.97c.18,.1,.35,.21,.53,.31,15.77,9.08,25.57,25.81,25.57,44v41.27c0,29.98,24.31,54.28,54.29,54.28h51.71c15.29,0,29.11-6.32,38.97-16.49,9.49-9.77,15.32-23.1,15.32-37.79v-41.27c0-18.19,9.81-34.92,25.57-44,.17-.1,.36-.21,.53-.31,7.98-4.63,16.89-6.96,25.79-6.96s17.42,2.23,25.23,6.75l35.75,20.63c8.54,4.94,17.88,7.28,27.09,7.28,18.76,0,37.01-9.73,47.06-27.15l25.86-44.79c14.99-25.96,6.09-59.16-19.87-74.15Zm-171.53-31.3c-4.62,13.86-11.99,26.47-21.48,37.17-4.63,5.22-9.76,9.98-15.32,14.2-12.57,9.58-27.31,16.43-43.35,19.7-6.94,1.41-14.12,2.15-21.47,2.15-1.84,0-3.67-.05-5.49-.14-5.44-.27-10.78-.95-15.98-2.01-23.15-4.71-43.58-16.89-58.68-33.9-9.48-10.7-16.86-23.31-21.47-37.17-3.55-10.65-5.47-22.04-5.47-33.87s1.92-23.23,5.47-33.87c4.61-13.87,11.99-26.47,21.47-37.17,15.1-17.01,35.53-29.19,58.68-33.9,4.83-.98,9.79-1.64,14.84-1.94,2.19-.14,4.4-.21,6.63-.21,7.35,0,14.53,.74,21.47,2.15,16.04,3.27,30.78,10.12,43.35,19.7,5.56,4.22,10.69,8.98,15.32,14.2,9.49,10.7,16.86,23.3,21.48,37.17,3.54,10.64,5.47,22.03,5.47,33.87s-1.93,23.22-5.47,33.87Z"/>
+                    <path fill="var(--bar)" d="M239.74,472.77l.89,1.55h-73.81c-18.17,0-32.9-14.73-32.9-32.9,0-9.08,3.68-17.31,9.64-23.26,5.95-5.96,14.18-9.64,23.26-9.64h68.08c-1,2.56-1.86,5.19-2.58,7.88-5.14,19.17-2.5,39.19,7.42,56.37Z"/>
                 </svg>
                 <img src="icon/thumbnails/CMSF.png" alt="ENCORE CMSF" id="headerimage" draggable="false">
          	</div>
